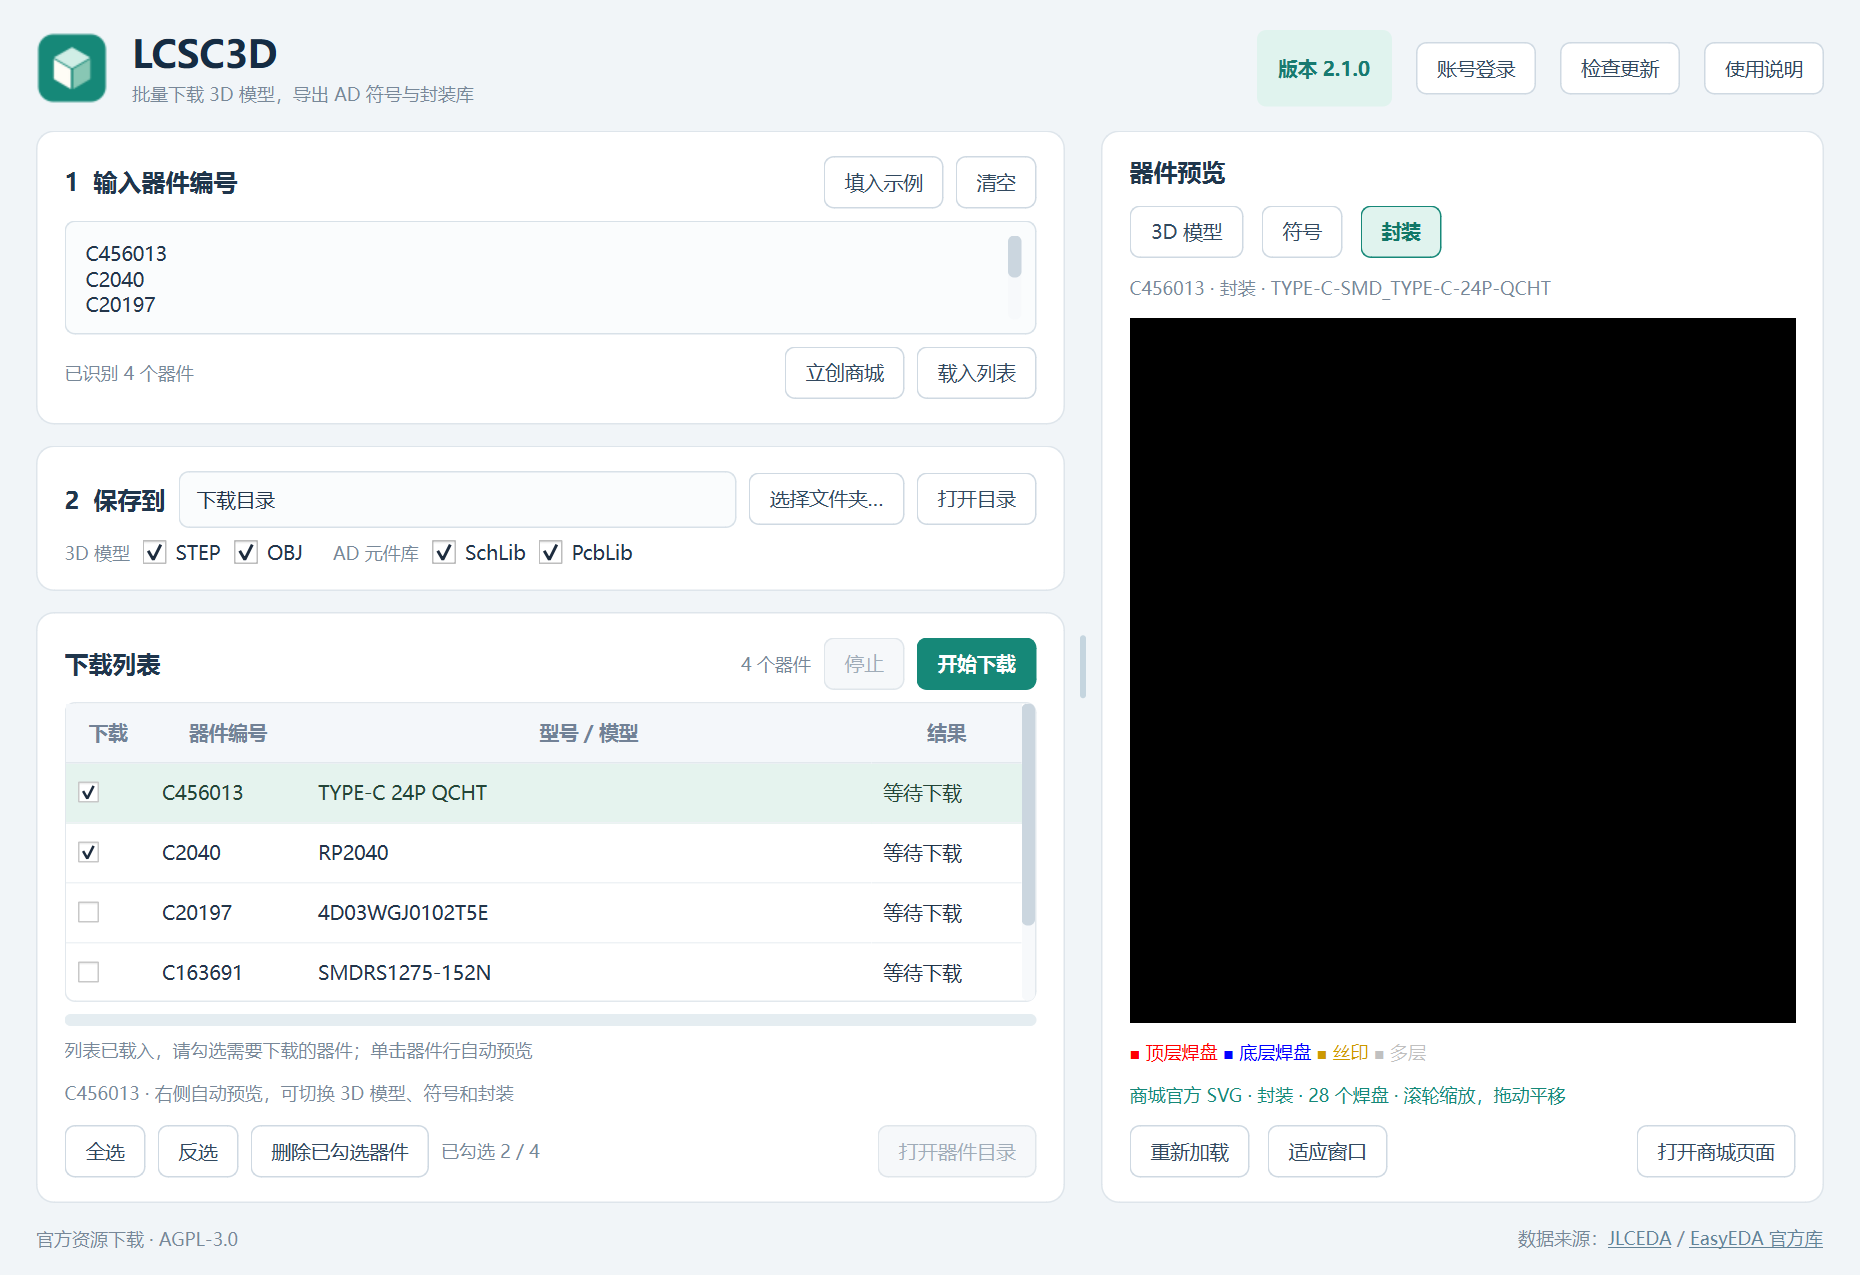
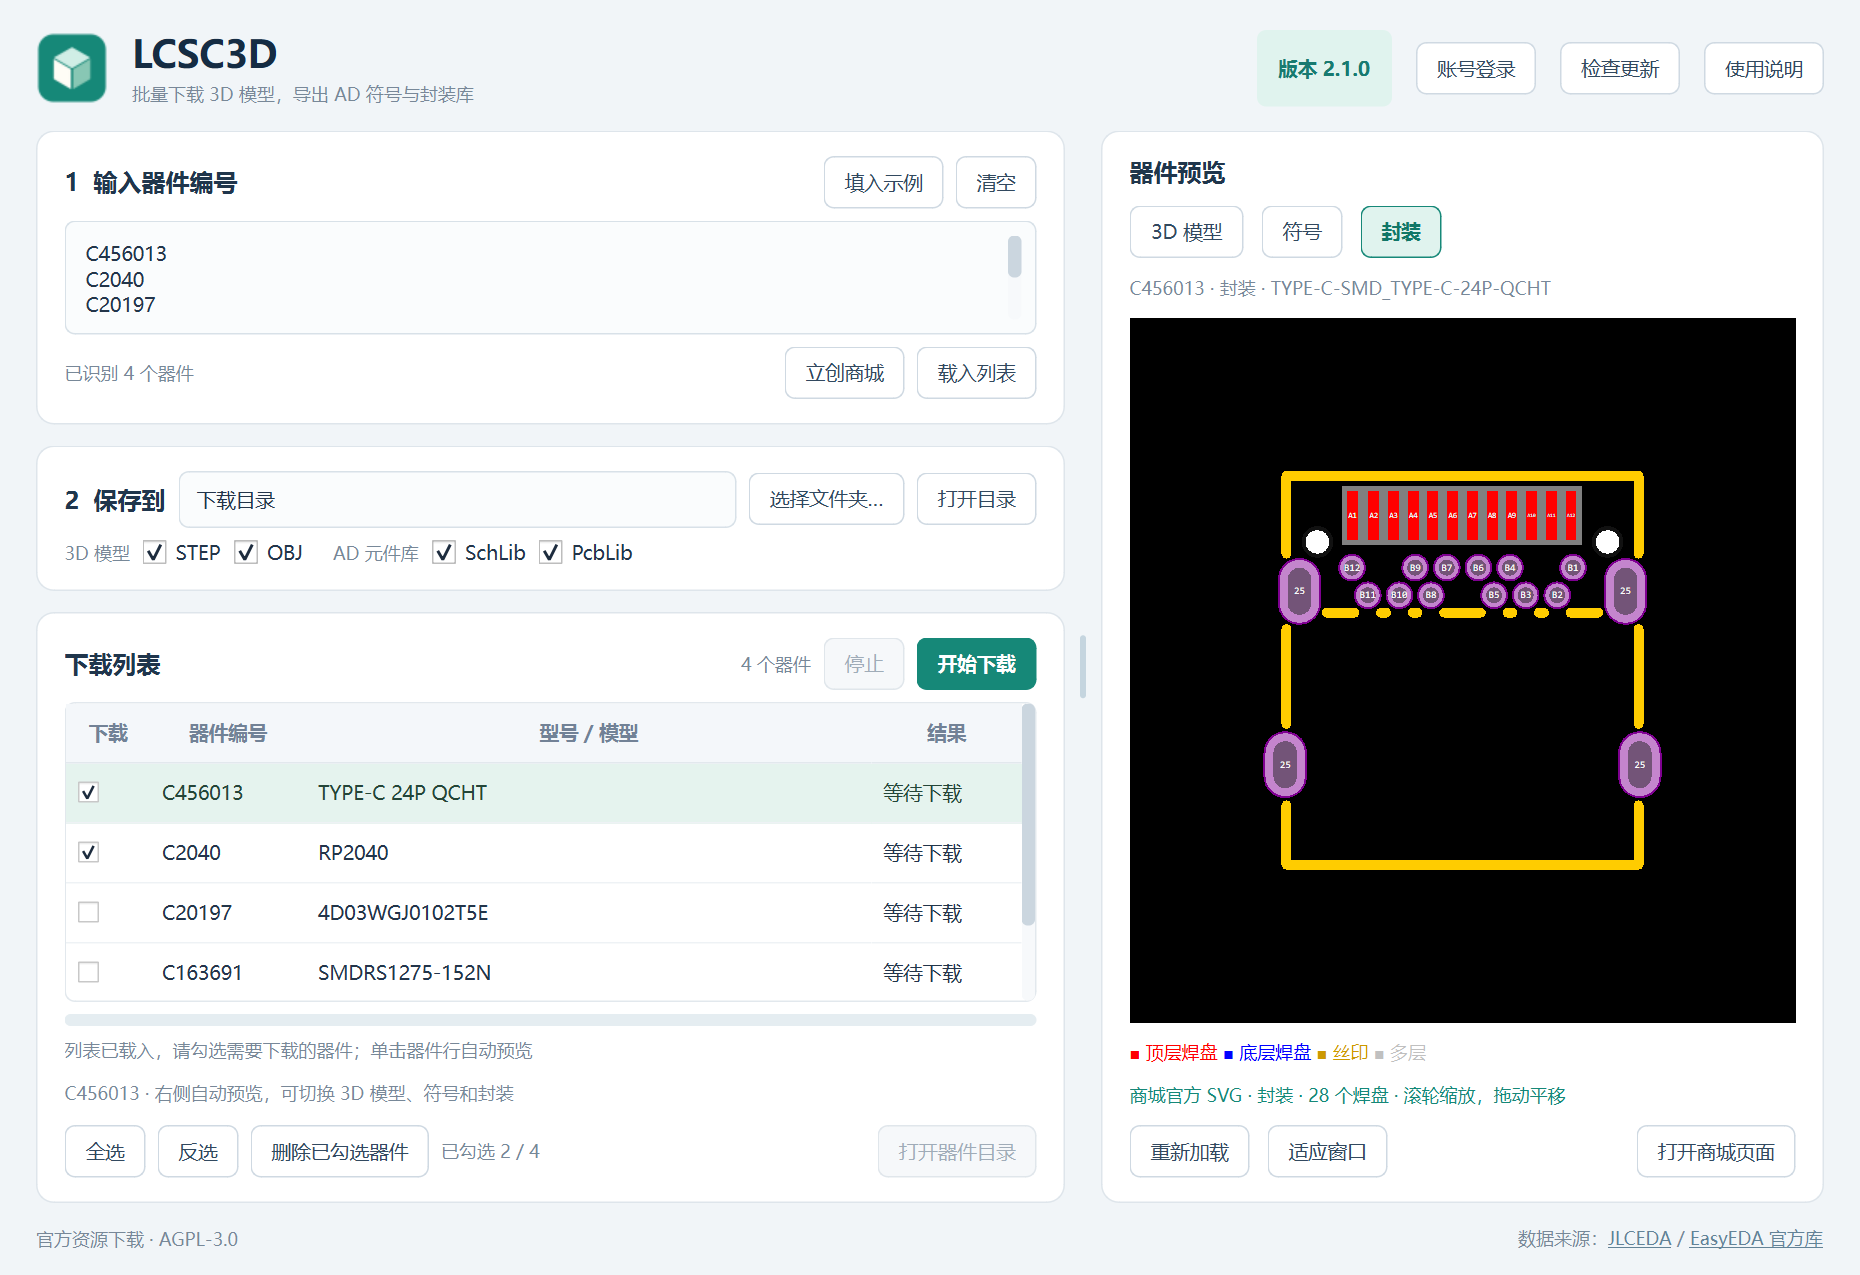
docs: recapture rendered symbol and footprint previews

Changed region(s): [[0.6548, 0.3671, 0.9043, 0.7035]]

diff --git a/app/docs_capture.py b/app/docs_capture.py
@@ -6,7 +6,7 @@ from pathlib import Path
 import sys
 import time
 
-from PySide6.QtCore import Qt, QTimer
+from PySide6.QtCore import QPoint, Qt, QTimer
 from PySide6.QtWidgets import QApplication
 
 from favorites import LoginDialog
@@ -32,8 +32,26 @@ def start(window, destination):
               'public_products_only': True, 'saved_session_accessed': False, 'screenshots': []}
 
     def capture(widget, name):
-        assert widget.grab().save(str(destination / (name + '.png'))), name
+        pixmap = widget.grab()
+        if name in ('symbol', 'footprint'):
+            view = window.symbol_view if name == 'symbol' else window.footprint_view
+            origin = view.mapTo(widget, QPoint(0, 0))
+            scale = pixmap.devicePixelRatio()
+            image = pixmap.toImage().copy(int(origin.x() * scale), int(origin.y() * scale),
+                                         int(view.width() * scale), int(view.height() * scale))
+            background = 255 if name == 'symbol' else 0
+            visible = sum(max(abs(channel - background) for channel in image.pixelColor(x, y).getRgb()[:3]) > 32
+                          for y in range(8, image.height() - 8, 8)
+                          for x in range(8, image.width() - 8, 8))
+            assert visible > 15, name + ': preview pixels are blank'
+        assert pixmap.save(str(destination / (name + '.png'))), name
         report['screenshots'].append(name + '.png')
+
+    def vector_frame_ready(phase):
+        # DOM readiness precedes WebEngine's composited frame on Windows.
+        if state.get('frame_phase') != phase:
+            state.update(frame_phase=phase, frame_ready_at=time.monotonic())
+        return time.monotonic() - state['frame_ready_at'] >= 2
 
     def finish(error=''):
         if state['done']:
@@ -66,10 +84,14 @@ def start(window, destination):
                 window.set_preview_mode('symbol')
                 state['phase'] = 'symbol'
             elif phase == 'symbol' and window.preview_state == 'ready' and window.library_worker is None:
+                if not vector_frame_ready(phase):
+                    return
                 capture(window, 'symbol')
                 window.set_preview_mode('footprint')
                 state['phase'] = 'footprint'
             elif phase == 'footprint' and window.preview_state == 'ready':
+                if not vector_frame_ready(phase):
+                    return
                 capture(window, 'footprint')
                 window.open_favorites('search')
                 dialog = window.favorites_dialog
